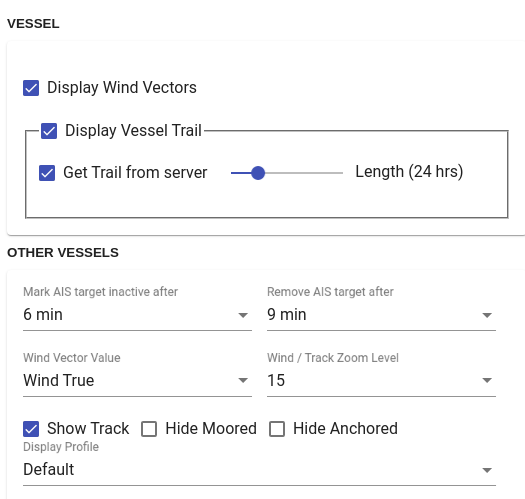
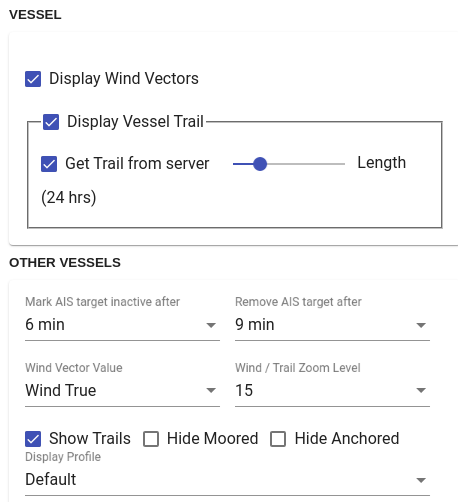
align use of term `trail` in settings

diff --git a/src/assets/help/index.html b/src/assets/help/index.html
@@ -1209,12 +1209,12 @@
                         Value used to display wind vector for other vessels displayed on the map.
                     </li>
                     <li>    
-                        <b>Wind / Track Zoom Level</b>:
-                        The minimum Zoom level at which other vessels wind vector and track will be displayed. <i>(Default=15)</i>
+                        <b>Wind / Trail Zoom Level</b>:
+                        The minimum Zoom level at which other vessels wind vector and trails will be displayed. <i>(Default=15)</i>
                     </li>  
                     <li>    
-                        <b>Show Track</b>:
-                        Select to display track of other vessels on map. Note: length of track is limited in length to approx 1hr of data.
+                        <b>Show Trails</b>:
+                        Select to display trails of other vessels on map. Note: length of trail is limited in length to approx 1hr of data.
                     </li>     
                     <li>    
                         <b>Hide Moored</b>:
@@ -1438,10 +1438,6 @@
                 <p><i>Note:</i> For experiments that require Signal K server support you will be required 
                     to have the <i>sk-resources-fs</i> plugin installed on the Signal K server.
                 </p>
-                <!--<p>
-                    Current experiments include:<br>
-                    <li>GRIB wind / temperature data display</li>
-                </p>-->
             </div>
         
         </div>

diff --git a/src/app/modules/settings/settings-dialog.html b/src/app/modules/settings/settings-dialog.html
@@ -345,7 +345,7 @@
                                     <mat-select #aiswindminzoom
                                             [(value)]="facade.settings.selections.aisWindMinZoom" 
                                             (selectionChange)="onFormChange($event, aiswindminzoom)"
-                                            placeholder="Wind / Track Zoom Level">
+                                            placeholder="Wind / Trail Zoom Level">
                                         <mat-option *ngFor="let i of facade.list.minZoom" [value]="i">{{i}}</mat-option>
                                     </mat-select>                                        
                                 </mat-form-field>
@@ -356,7 +356,7 @@
                                     [(ngModel)]="facade.settings.aisShowTrack" 
                                     (change)="onFormChange($event, aisShowTrack)"
                                     label="after">
-                                    Show Track
+                                    Show Trails
                                 </mat-checkbox>
                                 &nbsp;
                                 <mat-checkbox #aisStateMoored color="primary"
